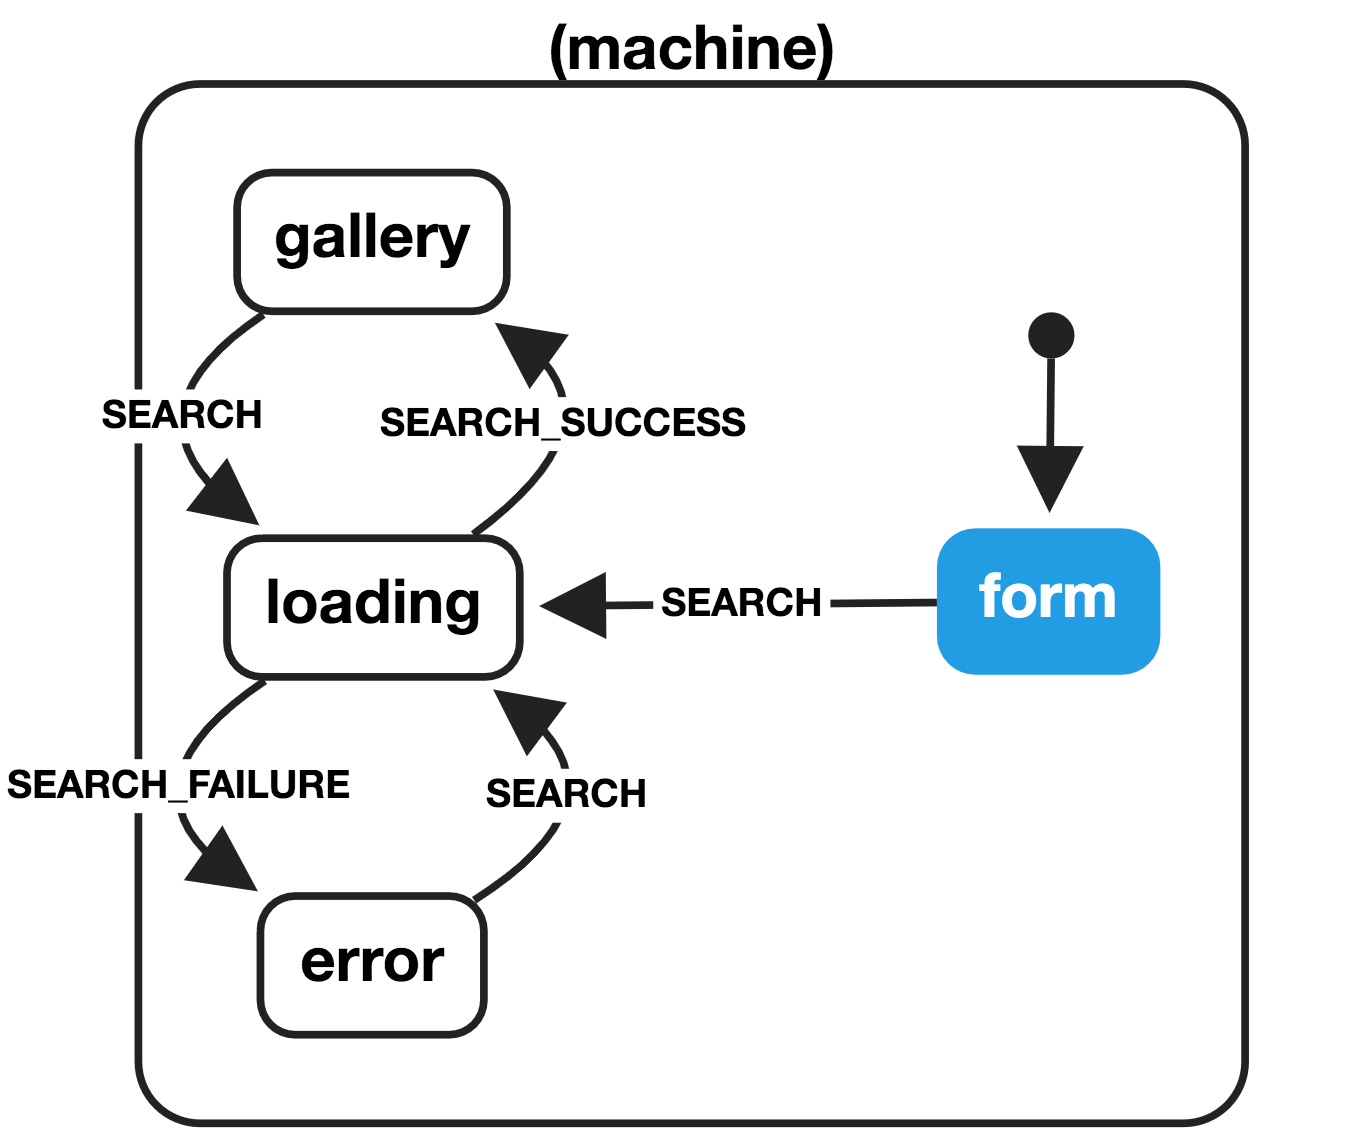
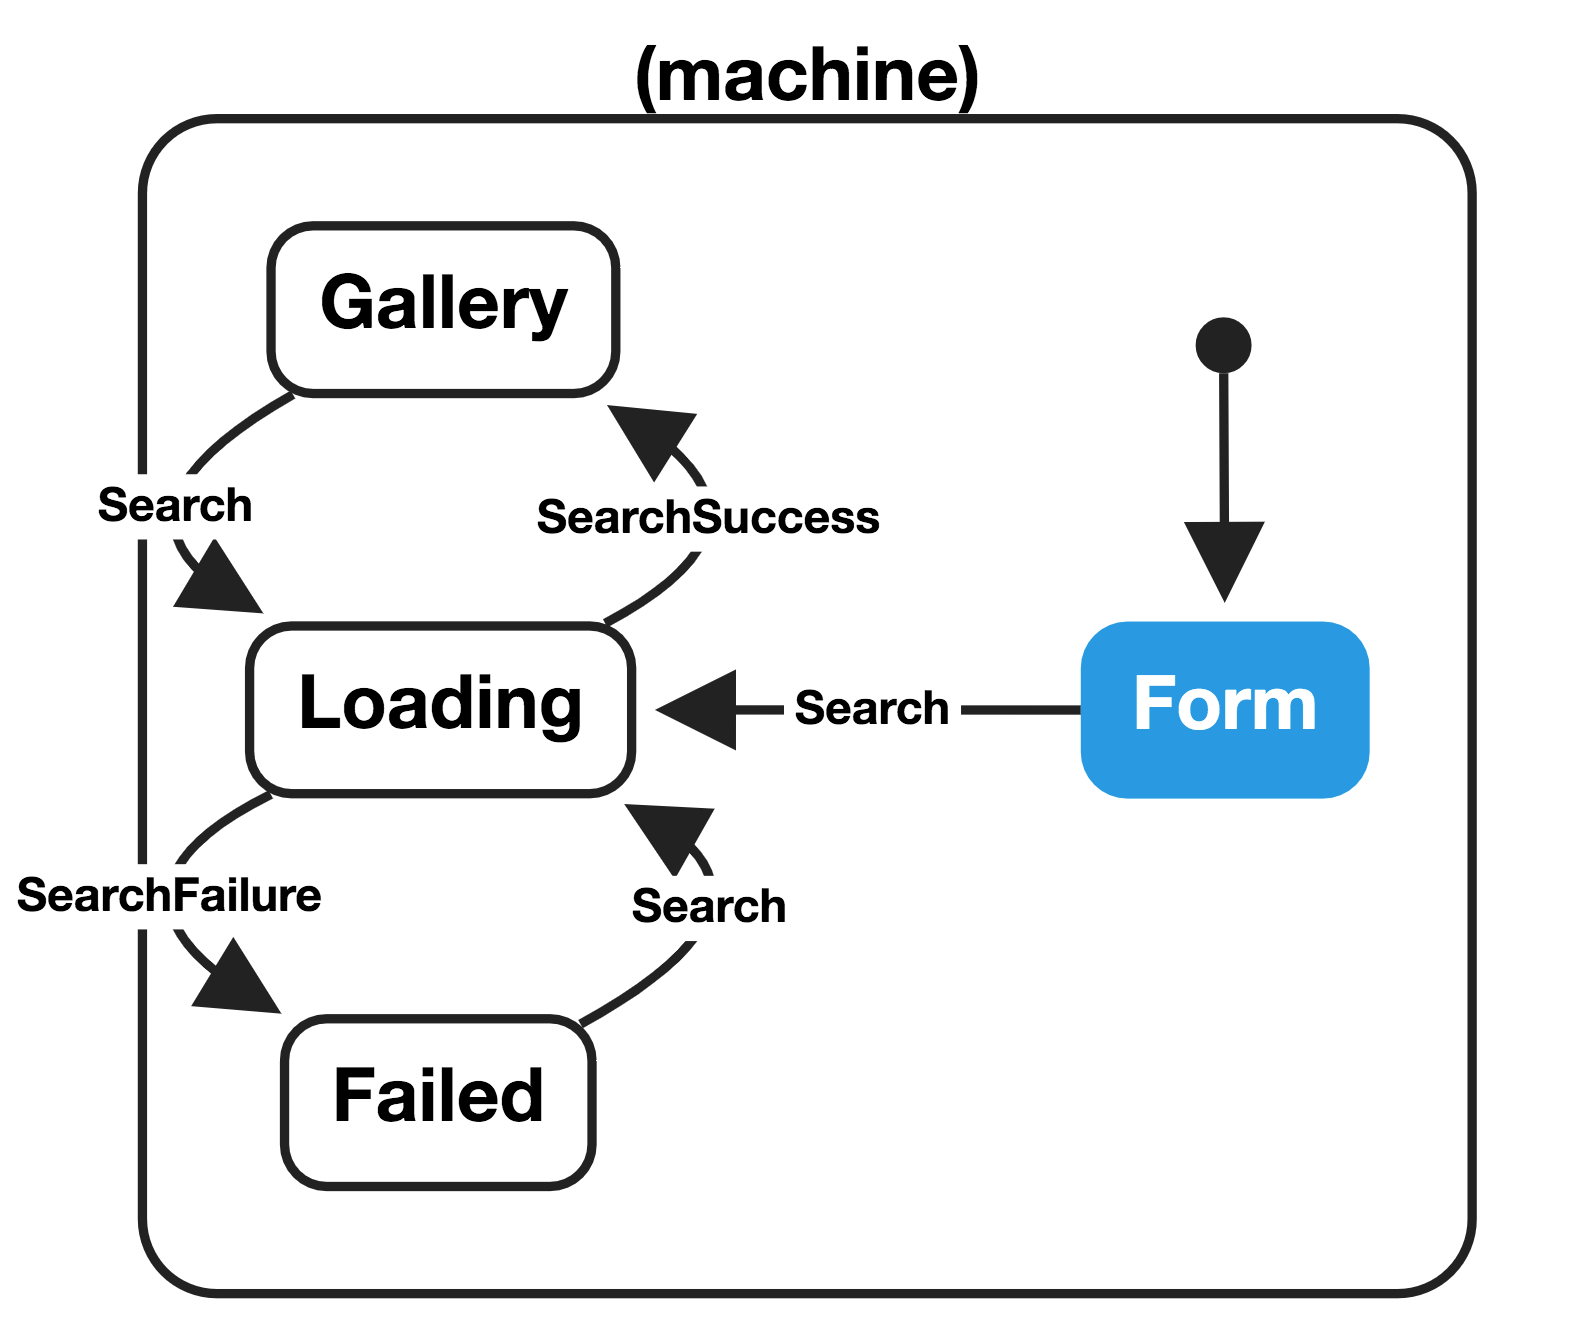
Update article

Changed region(s): [[0.0, 0.0309, 0.9333, 1.0], [0.7467, 0.216, 0.8089, 0.463]]

diff --git a/article/index.md b/article/index.md
@@ -2,23 +2,23 @@
 
 At the core of state machines is the following function:
 
-```
-(state, action) => newState
+```ts
+(state: State, action: Action) => State;
 ```
 
 If you're familiar with [Redux](https://redux.js.org/), that might look familiar to you. Redux is a state machine! A Redux [reducer](https://redux.js.org/basics/reducers) function describes how the machine should [_transition_](https://statecharts.github.io/glossary/transition.html), given the previous state and an [action](https://redux.js.org/basics/actions) (aka an [event](https://statecharts.github.io/glossary/event.html) in [statechart] terminology), to the next state.
 
-This article is interested in how we can utilise Redux to write a strongly-typed _finite_-state machine, in the interests of code correctness and readability. By _finite_, we mean that the machine may only be in one of a finite number of states at any given time. By strongly-typed, we mean that the states and actions should carry the types of their parameters, and these parameters should only be accessible when we've narrowed the union of states or actions to a single variant.
+This article is interested in how we can utilise Redux to write a _strongly-typed_ _finite_-state machine, in the interests of code correctness and readability. By _finite_, we mean that the machine may only be in one of a finite number of states at any given time. By _strongly-typed_, we mean that the states and actions should carry the types of their parameters, and these parameters should only be accessible when we've narrowed the union of states or actions to a single variant.
 
 The examples in this article are [available on GitHub](https://github.com/unsplash/ts-redux-finite-state-machine-example).
 
 ## Setting the scene
 
-Throughout this article we will use the example of a simple photo gallery. The application starts in a _form_ state, where the user may enter a query. Upon form submission the _search_ event is triggered, and the application should transition into a _loading_ state. When request either fails or succeeds, corresponding events _search failure_ and _search success_ are triggered the application should transition into the _failure_ or _succeed_ states, respectively. We can represent this as a [statechart] diagram:
+Throughout this article we will use the example of a simple photo gallery. The application starts in a `Form` state, where the user may enter a query. Upon form submission the `Search` event is triggered, and the application should transition into a `Loading` state. When request either fails or succeeds, corresponding events `SearchFailure` and `SearchSuccess` are triggered the application should transition into the `Failed` or `Success` states, respectively. We can represent this as a [statechart] diagram:
 
 ![](./statechart.png)
 
-Generated via https://musing-rosalind-2ce8e7.netlify.com/?machine=%7B%22initial%22%3A%22form%22%2C%22states%22%3A%7B%22form%22%3A%7B%22on%22%3A%7B%22SEARCH%22%3A%22loading%22%7D%7D%2C%22loading%22%3A%7B%22on%22%3A%7B%22SEARCH_SUCCESS%22%3A%7B%22gallery%22%3A%7B%7D%7D%2C%22SEARCH_FAILURE%22%3A%22error%22%7D%7D%2C%22error%22%3A%7B%22on%22%3A%7B%22SEARCH%22%3A%22loading%22%7D%7D%2C%22gallery%22%3A%7B%22on%22%3A%7B%22SEARCH%22%3A%22loading%22%7D%7D%7D%7D
+(Generated via https://musing-rosalind-2ce8e7.netlify.com/?machine=%7B%22initial%22%3A%22Form%22%2C%22states%22%3A%7B%22Form%22%3A%7B%22on%22%3A%7B%22Search%22%3A%22Loading%22%7D%7D%2C%22Loading%22%3A%7B%22on%22%3A%7B%22SearchSuccess%22%3A%7B%22Gallery%22%3A%7B%7D%7D%2C%22SearchFailure%22%3A%22Failed%22%7D%7D%2C%22Failed%22%3A%7B%22on%22%3A%7B%22Search%22%3A%22Loading%22%7D%7D%2C%22Gallery%22%3A%7B%22on%22%3A%7B%22Search%22%3A%22Loading%22%7D%7D%7D%7D.)
 
 ## Intro
 
@@ -33,17 +33,17 @@ We'll also need a helper for defining our `State` and `Action` types, which are 
 
 ```ts
 // typescript-helpers.ts
-interface TaggedVariant<T extends string, P> {
+interface TaggedVariant<T extends string, V> {
     type: T;
-    payload: P;
+    value: V;
 }
 
-export const createTaggedVariant = <T extends string, P>(
+export const createTaggedVariant = <T extends string, V>(
     type: T,
-    payload: P,
-): TaggedVariant<T, P> => ({
+    value: V,
+): TaggedVariant<T, V> => ({
     type,
-    payload,
+    value,
 });
 ```
 
@@ -57,7 +57,7 @@ import { createTaggedVariant } from './typescript-helpers';
 export enum StateType {
     Form = 'Form',
     Loading = 'Loading',
-    Failure = 'Failure',
+    Failed = 'Failed',
     Gallery = 'Gallery',
 }
 
@@ -70,8 +70,8 @@ export const loading = ({ query }: { query: string }) =>
     });
 type Loading = ReturnType<typeof loading>;
 
-export const failure = () => createTaggedVariant(StateType.Failure, {});
-type Failure = ReturnType<typeof failure>;
+export const failed = () => createTaggedVariant(StateType.Failed, {});
+type Failed = ReturnType<typeof failed>;
 
 export const gallery = ({ items }: { items: GalleryItem[] }) =>
     createTaggedVariant(StateType.Gallery, {
@@ -79,8 +79,10 @@ export const gallery = ({ items }: { items: GalleryItem[] }) =>
     });
 type Gallery = ReturnType<typeof gallery>;
 
-export type State = Form | Loading | Failure | Gallery;
+export type State = Form | Loading | Failed | Gallery;
 ```
+
+Note how the `query` parameter is only available in the `Loading` state, and the `items` parameter is only available in the `Gallery` state. By restricting these parameters so that they only exist in their corresponding states, we are making [impossible states impossible](https://www.youtube.com/watch?v=IcgmSRJHu_8): the type system only allows us to access the parameters when we are in a state where they can exist.
 
 ## Defining actions
 
@@ -116,9 +118,10 @@ export type Action = Search | SearchFailure | SearchSuccess;
 
 ## Defining transitions
 
-Earlier we saw how Redux's reducer functions allow us to describe our state transitions. We can define which transitions are valid for given states—for example, we don't want to honour the _search failure_ event when we're in a _gallery_ state—as well how the transition should be performed.
+Earlier we saw how Redux's reducer functions allow us to describe our state transitions. As well how the transition should be performed, we can define which transitions are valid for given states. For example, a valid transition would be from a `Loading` state, given a `SearchFailure` event, to the `Failed` state—but the `SearchFailure` event should not cause a transition when we're in the `Form` state.
 
 ```ts
+// reducer.ts
 import { Reducer } from 'redux';
 
 import { Action, ActionType } from './actions';
@@ -133,20 +136,20 @@ export const reducer: Reducer<states.State, Action> = (
     switch (state.type) {
         // For each state, we match each valid event and perform the corresponding state transition.
         case states.StateType.Form:
-        case states.StateType.Failure:
+        case states.StateType.Failed:
         case states.StateType.Gallery:
             switch (action.type) {
                 case ActionType.Search:
-                    return states.loading({ query: action.payload.query });
+                    return states.loading({ query: action.value.query });
                 default:
                     return state;
             }
         case states.StateType.Loading: {
             switch (action.type) {
                 case ActionType.SearchFailure:
-                    return states.failure();
+                    return states.failed();
                 case ActionType.SearchSuccess:
-                    return states.gallery({ items: action.payload.items });
+                    return states.gallery({ items: action.value.items });
                 default:
                     return state;
             }
@@ -160,14 +163,43 @@ export const reducer: Reducer<states.State, Action> = (
 To demonstrate our state machine, we can simulate actions. In a real world application, these would be driven by outside events such as user interactions or HTTP responses.
 
 ```ts
+// render.ts
+import * as states from './states';
+
+export const render = (state: states.State) => {
+    switch (state.type) {
+        case states.StateType.Form:
+            return 'Form';
+        case states.StateType.Loading:
+            return `Loading results for ${state.value.query}`;
+        case states.StateType.Failed:
+            return 'Failed';
+        case states.StateType.Gallery:
+            return `Results: ${state.value.items.length}`;
+    }
+};
+```
+
+```ts
 // index.ts
 import * as actions from './actions';
+import { render } from './render';
 import { configureAndCreateStore } from './store';
 
 const example = () => {
     const store = configureAndCreateStore();
 
-    console.log('Initial state', store.getState());
+    const renderWithState = () => {
+        const state = store.getState();
+
+        const renderResult = render(state);
+        console.log({ renderResult });
+    };
+
+    renderWithState();
+    store.subscribe(renderWithState);
+
+    // Simulate actions
 
     store.dispatch(actions.search({ query: 'dogs' }));
 
@@ -191,18 +223,14 @@ const example = () => {
 example();
 ```
 
-This log shows the initial state and, for each transition, the action and next state.
+This produces the following output in the console:
 
 ```
-Initial state { type: 'Form', payload: {} }
-{ action: { type: 'Search', payload: { query: 'dogs' } },
-  nextState: { type: 'Search', payload: { query: 'dogs' } } }
-{ action: { type: 'SearchSuccess', payload: { items: [Array] } },
-  nextState: { type: 'SearchSuccess', payload: { items: [Array] } } }
-{ action: { type: 'Search', payload: { query: 'cats' } },
-  nextState: { type: 'Search', payload: { query: 'cats' } } }
-{ action: { type: 'SearchFailure', payload: {} },
-  nextState: { type: 'SearchFailure', payload: {} } }
+{ renderResult: 'Form' }
+{ renderResult: 'Loading results for dogs' }
+{ renderResult: 'Results: 2' }
+{ renderResult: 'Loading results for cats' }
+{ renderResult: 'Failed' }
 ```
 
 ## Going further
